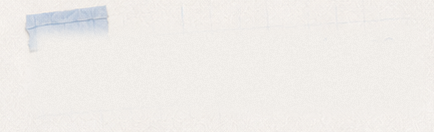
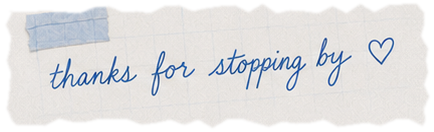
Use exact reference artwork for About headings, glyphs, and colors
Cursive headings (hey there / experience / you'll find me / thanks
strip) are now the reference's own handwriting cropped whole with their
underlines and stars, with hidden accessible text kept for the first
three. List stars and diamond bullets are cropped from the reference
instead of drawn SVGs, and ink colors are sampled from it (#355c9a
cursive, #312d29 typewriter, warm-grey separators). The thanks strip
gets a deckle-edge alpha silhouette, slightly deeper cream, and a real
silhouette-following shadow so the paper reads clearly.

Claude-Session: https://claude.ai/code/session_01HwHnB6ZvdvjAvLg4jAqUHh

diff --git a/index.html b/index.html
@@ -51,8 +51,8 @@ nav .links{position:absolute;right:44px;display:flex;gap:52px;text-transform:upp
 nav a{color:#fff;text-decoration:none;opacity:.92}
 nav a:hover{opacity:1;text-decoration:underline;text-underline-offset:5px}
 /* over the About section the fixed nav switches to the page's ink blue */
-body.on-about nav{color:#2d55a8;text-shadow:none}
-body.on-about nav a{color:#2d55a8}
+body.on-about nav{color:#355c9a;text-shadow:none}
+body.on-about nav a{color:#355c9a}
 body.on-about nav a[href="#about"]{text-decoration:underline;text-underline-offset:6px}
 body.on-about nav .mono img{filter:brightness(0) saturate(100%) invert(29%) sepia(59%) saturate(1362%) hue-rotate(198deg) brightness(93%) contrast(96%)}
 nav,nav a,nav .mono img{transition:color .35s ease,filter .35s ease}
@@ -120,25 +120,20 @@ nav,nav a,nav .mono img{transition:color .35s ease,filter .35s ease}
 #about-canvas{position:absolute;top:50%;left:50%;width:1672px;height:941px;
   transform-origin:center center}
 .ab{position:absolute}
-.ab img{width:100%;height:100%;display:block}
-.ab-cursive{font-family:"Cedarville Cursive",cursive;color:#2d55a8}
-.ab-type{font-family:"Special Elite","Courier New",monospace;color:#3b3a37}
-.ab-cursive>svg{display:block;margin-top:2px}
-#ab-hey{font-size:64px;line-height:1;white-space:nowrap}
-#ab-hey .ab-star{position:absolute;right:-10px;top:34px}
+.ab>img{width:100%;height:100%;display:block}
+.ab .row img{display:block}
+.sr-only{position:absolute;width:1px;height:1px;overflow:hidden;clip:rect(0 0 0 0);white-space:nowrap}
+#ab-thanks-paper img{filter:drop-shadow(0 4px 7px rgba(110,95,70,.35))}
+.ab-type{font-family:"Special Elite","Courier New",monospace;color:#312d29}
 #ab-intro{font-size:19px;line-height:1.6}
 #ab-intro p+p{margin-top:21px}
-#ab-exp-head{font-size:46px;line-height:1;white-space:nowrap}
-#ab-exp-head .ab-star{position:absolute;right:-46px;bottom:-4px}
 #ab-exp{font-size:16.5px;line-height:1.5}
-#ab-exp .row{display:flex;gap:16px;align-items:flex-start;padding:13px 0}
-#ab-exp .row+.row{border-top:1.5px dashed rgba(70,85,120,.38)}
-#ab-exp .row svg{flex:0 0 auto;margin-top:3px}
-#ab-int-head{font-size:32px;line-height:1;white-space:nowrap}
+#ab-exp .row{display:flex;gap:6px;align-items:flex-start;padding:9px 0}
+#ab-exp .row+.row{border-top:1.5px dashed #bbb6b2}
+#ab-exp .row img{flex:0 0 auto;margin-top:-3px}
 #ab-int{font-size:16px;line-height:1.4}
-#ab-int .row{display:flex;gap:15px;align-items:center;margin-bottom:27px}
-#ab-int .row svg{flex:0 0 auto}
-#ab-thanks{font-size:34px;line-height:1;white-space:nowrap;text-align:center}
+#ab-int .row{display:flex;gap:6px;align-items:center;margin-bottom:16px}
+#ab-int .row img{flex:0 0 auto}
 /* notebook is now a doorway to #about */
 #notebook a{cursor:pointer}
 </style>
@@ -207,7 +202,7 @@ nav,nav a,nav .mono img{transition:color .35s ease,filter .35s ease}
     <div class="ab" id="ab-intro-paper"  aria-hidden="true"><img src="assets/about/intro-paper.png" alt=""></div>
     <div class="ab" id="ab-exp-paper"    aria-hidden="true"><img src="assets/about/exp-paper.png" alt=""></div>
     <div class="ab" id="ab-int-paper"    aria-hidden="true"><img src="assets/about/int-paper.png" alt=""></div>
-    <div class="ab" id="ab-thanks-paper" aria-hidden="true"><img src="assets/about/thanks-paper.png" alt=""></div>
+    <div class="ab" id="ab-thanks-paper"><img src="assets/about/thanks-paper.png" alt="thanks for stopping by"></div>
     <div class="ab" id="ab-tape-cream"   aria-hidden="true"><img src="assets/about/tape-cream.png" alt=""></div>
     <div class="ab" id="ab-tape-a"       aria-hidden="true"><img src="assets/about/tape-grid-a.png" alt=""></div>
     <div class="ab" id="ab-tape-b"       aria-hidden="true"><img src="assets/about/tape-grid-b.png" alt=""></div>
@@ -218,37 +213,17 @@ nav,nav a,nav .mono img{transition:color .35s ease,filter .35s ease}
     <div class="ab" id="ab-floral"       aria-hidden="true"><img src="assets/about/floral.png" alt=""></div>
 
     <!-- text layers: real, selectable HTML -->
-    <div class="ab ab-cursive" id="ab-hey">hey, there!
-      <svg width="330" height="16" viewBox="0 0 330 16" fill="none" aria-hidden="true">
-        <path d="M4 10 C 60 4, 150 14, 200 8 S 300 6, 326 10" stroke="#2d55a8" stroke-width="2.4" stroke-linecap="round"/>
-      </svg>
-      <svg class="ab-star" width="42" height="42" viewBox="0 0 42 42" fill="none" aria-hidden="true">
-        <path d="M21 4 L25.4 15.8 L38 16.2 L28 23.6 L31.6 35.8 L21 28.6 L10.4 35.8 L14 23.6 L4 16.2 L16.6 15.8 Z"
-          stroke="#2d55a8" stroke-width="2" stroke-linejoin="round" transform="rotate(-8 21 21)"/>
-      </svg>
-    </div>
+    <div class="ab" id="ab-hey"><img src="assets/about/hey-art.png" alt="hey, there!"></div>
     <div class="ab ab-type" id="ab-intro">
       <p>I&rsquo;m a cognitive science student interested in UI/UX and AI-human interaction.</p>
       <p>I build projects and design experiences around those interests, along with planning events and bringing people together, especially when there&rsquo;s a larger purpose behind the work.</p>
       <p>Whether I&rsquo;m working on a project or with a community, what matters most to me is creating something that leaves a lasting impact.</p>
     </div>
-    <div class="ab ab-cursive" id="ab-exp-head">experience
-      <svg width="230" height="14" viewBox="0 0 230 14" fill="none" aria-hidden="true">
-        <path d="M3 8 C 50 3, 120 12, 170 7 S 215 6, 227 9" stroke="#2d55a8" stroke-width="2.2" stroke-linecap="round"/>
-      </svg>
-      <svg class="ab-star" width="30" height="30" viewBox="0 0 42 42" fill="none" aria-hidden="true">
-        <path d="M21 4 L25.4 15.8 L38 16.2 L28 23.6 L31.6 35.8 L21 28.6 L10.4 35.8 L14 23.6 L4 16.2 L16.6 15.8 Z"
-          stroke="#2d55a8" stroke-width="2.6" stroke-linejoin="round" transform="rotate(10 21 21)"/>
-      </svg>
-    </div>
+    <div class="ab" id="ab-exp-head"><img src="assets/about/exp-head-art.png" alt="experience"></div>
     <div class="ab ab-type" id="ab-exp"></div>
-    <div class="ab ab-cursive" id="ab-int-head">you&rsquo;ll find me...
-      <svg width="168" height="12" viewBox="0 0 200 12" fill="none" aria-hidden="true">
-        <path d="M3 7 C 45 3, 110 10, 150 6 S 190 5, 197 8" stroke="#2d55a8" stroke-width="2" stroke-linecap="round"/>
-      </svg>
-    </div>
+    <div class="ab" id="ab-int-head"><img src="assets/about/int-head-art.png" alt="you&rsquo;ll find me..."></div>
     <div class="ab ab-type" id="ab-int"></div>
-    <div class="ab ab-cursive" id="ab-thanks">thanks for stopping by &#9825;</div>
+    <span class="sr-only">thanks for stopping by</span>
   </div>
 </section>
 
@@ -438,14 +413,13 @@ const ABOUT_LAYOUT = {
   "ab-evil-eye":     {x: 988, y: 718, w: 142, h: 140, r: 0, z: 4},
   "ab-paperclip":    {x:1460, y: 164, w:  80, h: 108, r: 0, z: 4},
   "ab-floral":       {x:1512, y: 602, w:  74, h:  66, r: 0, z: 4},
-  /* text blocks (w only; height is content) */
-  "ab-hey":          {x:  98, y: 108, w: 360, r: -2, z: 5},
+  /* headings are the reference's own handwriting, cropped whole */
+  "ab-hey":          {x:  60, y: 100, w: 485, h: 168, r: 0, z: 5},
   "ab-intro":        {x: 132, y: 324, w: 372, r: 0, z: 5},
-  "ab-exp-head":     {x: 800, y: 270, w: 240, r: -1, z: 5},
+  "ab-exp-head":     {x: 770, y: 252, w: 290, h: 106, r: 0, z: 5},
   "ab-exp":          {x: 742, y: 352, w: 388, r: 0, z: 5},
-  "ab-int-head":     {x:1302, y: 250, w: 210, r: -1, z: 5},
+  "ab-int-head":     {x:1288, y: 252, w: 238, h:  72, r: 0, z: 5},
   "ab-int":          {x:1300, y: 322, w: 226, r: 0, z: 5},
-  "ab-thanks":       {x:1268, y: 772, w: 366, r: -1, z: 5},
 };
 for (const [id, p] of Object.entries(ABOUT_LAYOUT)) {
   const el = document.getElementById(id);
@@ -465,17 +439,14 @@ const EXPERIENCE = [
   ["Donerds Donuts,", "Consultant"],
   ["NYX Ventures,", "Research Intern"],
 ];
-const AB_STAR = '<svg width="26" height="26" viewBox="0 0 42 42" fill="none" aria-hidden="true">' +
-  '<path d="M21 4 L25.4 15.8 L38 16.2 L28 23.6 L31.6 35.8 L21 28.6 L10.4 35.8 L14 23.6 L4 16.2 L16.6 15.8 Z"' +
-  ' stroke="#2d55a8" stroke-width="2.6" stroke-linejoin="round"/></svg>';
+const AB_STAR = '<img src="assets/about/star-row.png" width="46" height="46" alt="" aria-hidden="true">';
 const expBox = document.getElementById("ab-exp");
 if (expBox) expBox.innerHTML = EXPERIENCE.map(([a,b]) =>
   '<div class="row">' + AB_STAR + '<div>' + a + '<br>' + b + '</div></div>').join("");
 
 /* interests — same tiny diamond beside every item */
 const INTERESTS = ["designing","exploring","driving creativity","building community","giving back"];
-const AB_DIAMOND = '<svg width="16" height="16" viewBox="0 0 16 16" fill="none" aria-hidden="true">' +
-  '<path d="M8 1.5 L14.5 8 L8 14.5 L1.5 8 Z" stroke="#2d55a8" stroke-width="1.8" stroke-linejoin="round"/></svg>';
+const AB_DIAMOND = '<img src="assets/about/diamond.png" width="34" height="34" alt="" aria-hidden="true">';
 const intBox = document.getElementById("ab-int");
 if (intBox) intBox.innerHTML = INTERESTS.map(t =>
   '<div class="row">' + AB_DIAMOND + '<div>' + t + '</div></div>').join("");
